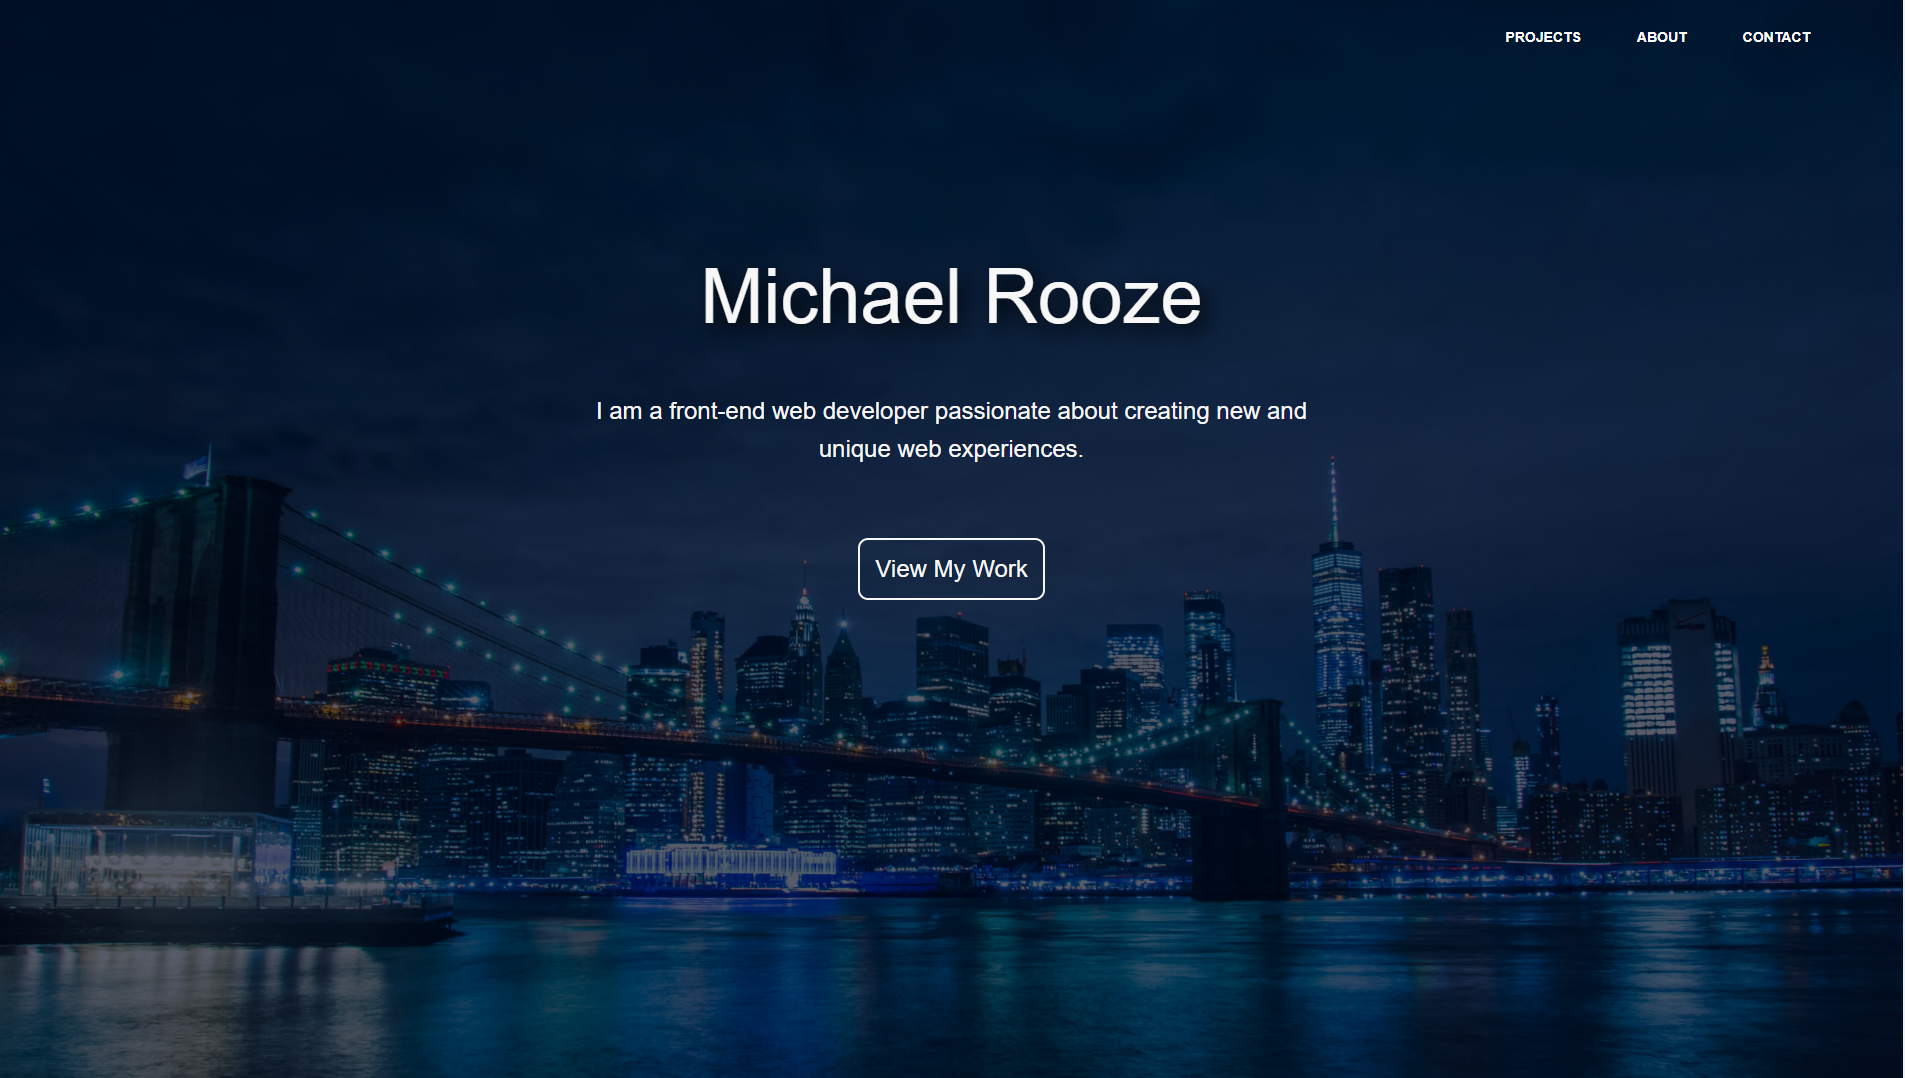
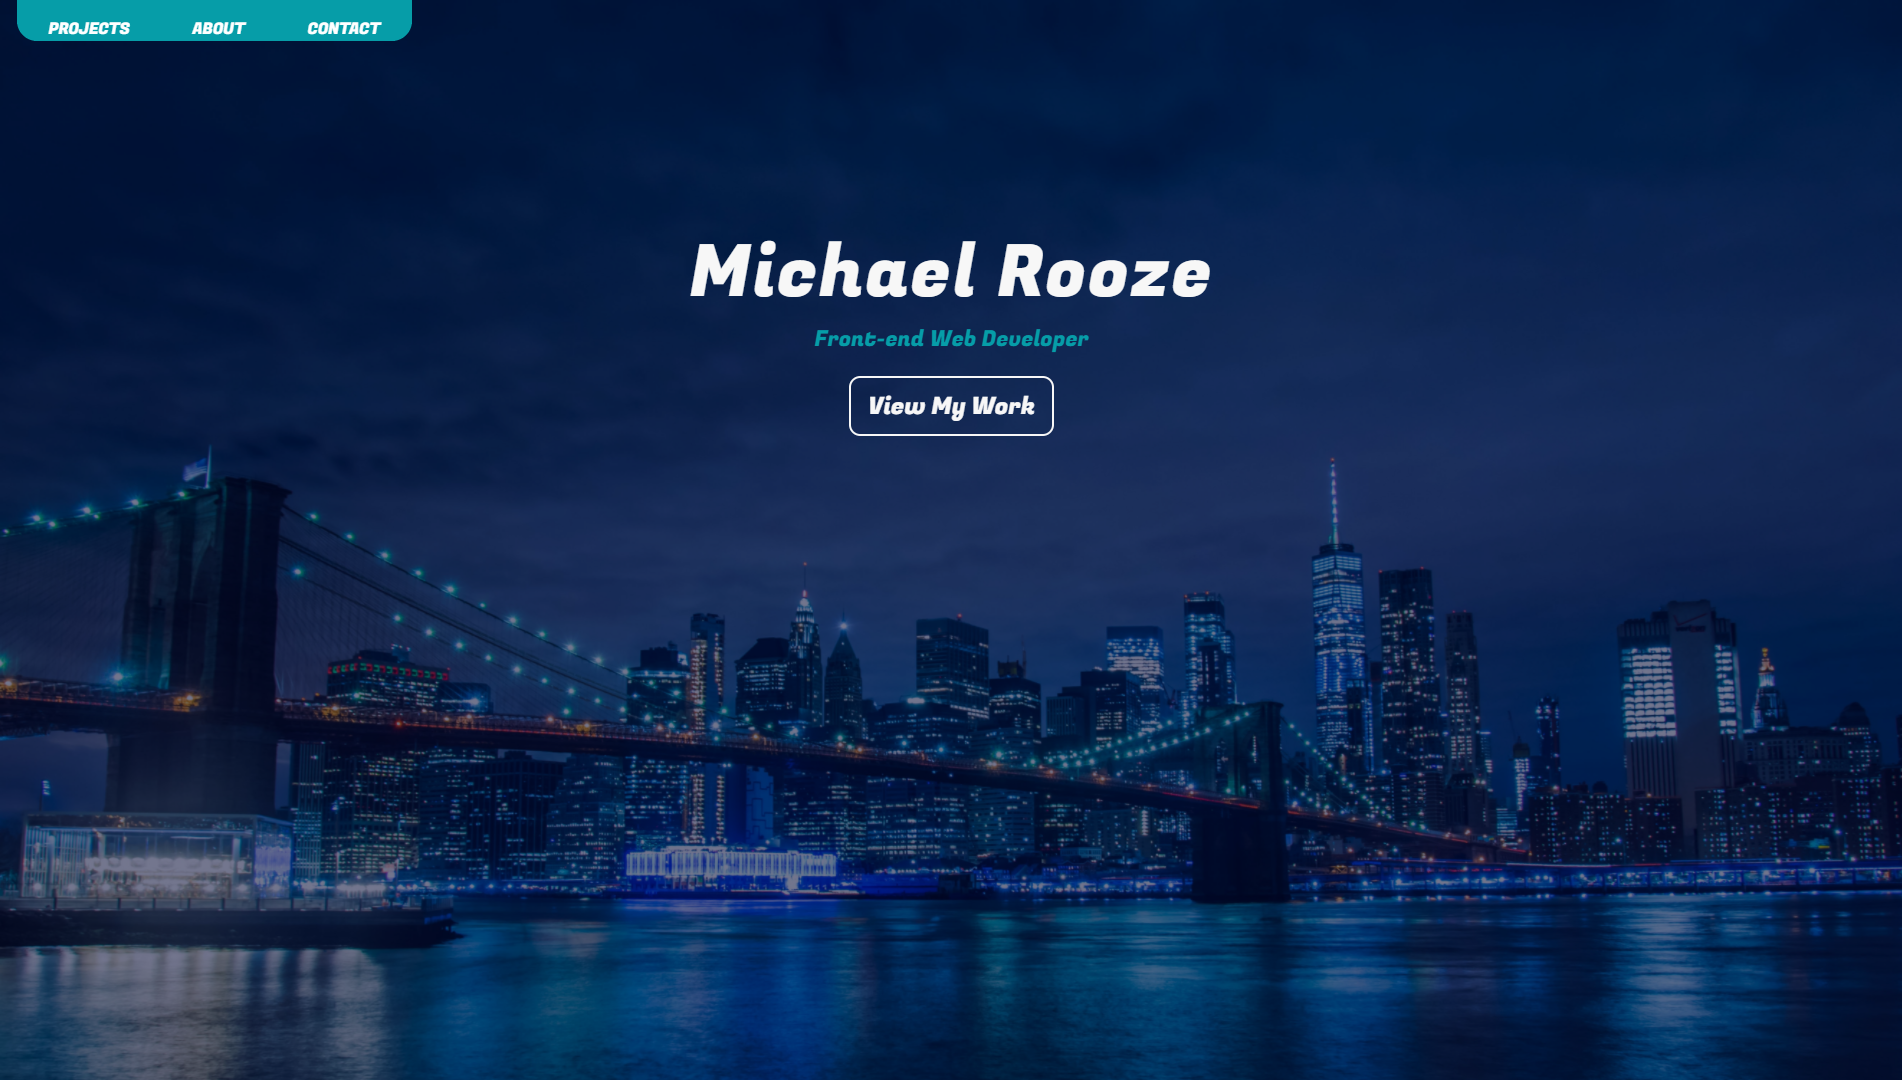
Update projects

diff --git a/src/styles/components/navbar.scss b/src/styles/components/navbar.scss
@@ -1,51 +1,49 @@
 .NavBar-navBar {
-    position: fixed;
-    background-color: $blue;
-    border-radius: 0 0 20px 20px;
+  position: fixed;
+  background-color: $blue;
+  border-radius: 0 0 20px 20px;
 }
 
 .NavBar-item {
-    // font-family: "brandon-grotesque", Helvetica, Arial, sans-serif;
-
-    font-family: 'Fugaz One';
-    text-transform: uppercase;
-    color: #fff;
-    font-size: 0.875em;
-    text-decoration: none;
-    margin: 1em 2em;
-    -webkit-transition: color .6s;
-    transition: color .6s;
+  text-transform: uppercase;
+  position: relative;
+  top: -6px;
+  color: #fff;
+  font-size: 0.875em;
+  text-decoration: none;
+  margin: 1em 2em;
+  -webkit-transition: color 0.4s;
+  transition: color 0.6s;
 }
 
 .NavBar-item:hover {
-    color: $light-grey;
-    cursor: pointer;
+  color: $light-grey;
+  cursor: pointer;
 }
 
 #NavBar-icon {
-    margin-right: auto;
+  margin-right: auto;
 }
 
 #NavBar-icon > img {
-    width: 5rem;
-    height: 5rem;
+  width: 5rem;
+  height: 5rem;
 }
 
 @media only screen and (max-width: $tablet-breakpoint) {
-    #NavBar-icon {
-        display: none;
+  #NavBar-icon {
+    display: none;
+  }
 
-    }
-
-    .NavBar-navBar {
-        justify-content: space-around;
-        position: none;
-    }
+  .NavBar-navBar {
+    justify-content: space-around;
+    position: none;
+  }
 }
 
 @media only screen and (max-width: $iphone-breakpoint) {
-    .NavBar-navBar {
-        position: none;
-        font-size: 16px;
-    }
+  .NavBar-navBar {
+    position: none;
+    font-size: 16px;
+  }
 }

diff --git a/src/components/portfolio-items/TodoistClone.js b/src/components/portfolio-items/TodoistClone.js
@@ -5,7 +5,7 @@ const SimpleCricket = () => {
   return (
     <div className='portfolio-portfolioItem'>
         <div className='portfolio-portfolioItemImage' id='portfolio-blindsTrackerImage'>
-            <a href='https://knechtinsurance.com' target='blank'><img src='/images/knecht-insurance.png' className='portfolio-screenshot'></img></a>
+            <a href='https://knechtinsurance.com' target='blank'><img src='/images/todoist-preview.png' className='portfolio-screenshot'></img></a>
         </div>
         <div className='portfolio-portfolioItemText' id='portfolio-portfolioSiteText'>
             <h2 className='portfolio-portfolioItemTitle'>Todoist (Clone)</h2>

diff --git a/src/components/Portfolio.js b/src/components/Portfolio.js
@@ -3,7 +3,7 @@ import React from 'react';
 import KnechtInsurance from './portfolio-items/KnechtInsurance';
 import SimpleCricket from './portfolio-items/SimpleCricket';
 import PortfolioPage from './portfolio-items/PortfolioPage';
-import TodoistClone from './portfolio-items/TodoistClone';
+// import TodoistClone from './portfolio-items/TodoistClone';
 
 const Portfolio = () => {
   return (
@@ -18,7 +18,7 @@ const Portfolio = () => {
         <hr />
         <SimpleCricket />
         <hr />
-        <TodoistClone/>
+        {/* <TodoistClone/> */}
         <hr />
         <PortfolioPage />
         <hr />

diff --git a/src/components/About.js b/src/components/About.js
@@ -39,7 +39,7 @@ const About = () => {
                         <li>Webpack<br /></li>
                         <li>Babel<br /></li>
                         <li>Git and Github<br /></li>
-                        <li>Command Line/Terminal<br /></li>
+                        <li>Bash<br /></li>
                         <li>Heroku<br /></li>
                         <li>Google Domains<br /></li>
                         <li>Chrome Dev-Tools<br /></li>
